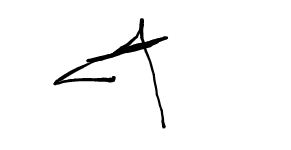
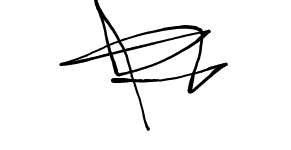
Ajustes MC
Ajustes de logica para MC

Changed region(s): [[0.1856, 0.0, 0.8041, 0.88]]

diff --git a/MantenimientosPTM/Scripts/mantenimientos_correctivos_refactor.js b/MantenimientosPTM/Scripts/mantenimientos_correctivos_refactor.js
@@ -2038,9 +2038,12 @@ class MantenimientoManager {
             showSuperviso: true,
             showMantenimiento: false,
             nombreSuperviso: this.datos_usuario[0].NOMBRECOMPLETO.toUpperCase(),
-            bloquearRealizo: (FirmaTecnico != ""),
-            bloquearSuperviso: false,
-            bloquearMantenimiento: true
+            deshabilitarRealizo: (FirmaTecnico != ""),
+            bloquearRealizo: (FirmaTecnico === ""),
+            deshabilitarSuperviso: (FirmaSuperviso != ""),
+            bloquearSuperviso: (FirmaSuperviso == "" ? false : true),
+            deshabilitarMantenimiento: (FirmaMantenimiento != ""),
+            bloquearMantenimiento: (FirmaMantenimiento === ""),
         });
 
         // Para perfil Producción NO se muestra la firma de Mantenimiento pero se permite guardar OT
@@ -2109,8 +2112,7 @@ class MantenimientoManager {
 
         //IMPORTANTE SI YA FIRMO MANTENIMIENTO OCULTAR BOTON GUARDAR
         if (FirmaSuperviso != "") {
-            $("#btnGuardarOT").prop("disabled", true);
-            $("#btnGuardarOT").addClass("btn_disabled");
+            $("#btnGuardarOT").prop("disabled", true).addClass("d-none");
         }
 
     }
@@ -2272,7 +2274,7 @@ class MantenimientoManager {
     // ============================
     // Helper: configurar firmas (mostrar, bloquear y nombres)
     // ============================
-    _configureFirmas({ showRealizo = true, showSuperviso = true, showMantenimiento = true, nombreRealizo = null, nombreSuperviso = null, nombreMantenimiento = null, bloquearRealizo = false, bloquearSuperviso = false, bloquearMantenimiento = false } = {}) {
+    _configureFirmas({ showRealizo = true, showSuperviso = true, showMantenimiento = true, nombreRealizo = null, nombreSuperviso = null, nombreMantenimiento = null, deshabilitarRealizo = false, bloquearRealizo = false, deshabilitarSuperviso = false, bloquearSuperviso = false, deshabilitarMantenimiento = false,bloquearMantenimiento = false } = {}) {
         if (showRealizo) this.gestionFirmas.mostrarFirma('Realizo', true);
         else this.gestionFirmas.mostrarFirma('Realizo', false);
 
@@ -2287,13 +2289,15 @@ class MantenimientoManager {
         if (nombreMantenimiento) $("#nombreMantenimiento").val(nombreMantenimiento).attr('readonly', true);
 
         if (bloquearRealizo) this.gestionFirmas._bloquearFirma('Realizo');
-        else this.gestionFirmas.deshabilitarFirma('Realizo', true);
+        else if (deshabilitarRealizo)
+            this.gestionFirmas.deshabilitarFirma('Realizo', true);
 
         if (bloquearSuperviso) this.gestionFirmas._bloquearFirma('Superviso');
-        else this.gestionFirmas.deshabilitarFirma('Superviso', true);
+        else if (deshabilitarSuperviso)
+            this.gestionFirmas.deshabilitarFirma('Superviso', true);
 
         if (bloquearMantenimiento) this.gestionFirmas._bloquearFirma('Mantenimiento');
-        else this.gestionFirmas.deshabilitarFirma('Mantenimiento', true);
+        else if(deshabilitarMantenimiento) this.gestionFirmas.deshabilitarFirma('Mantenimiento', true);
     }
 
     calcularTiemposCierreOT(MaquinaDetenida, HoraAperturaOT, HoraCierreOT, HoraInicioTrabajo, HoraFinTrabajo) {
